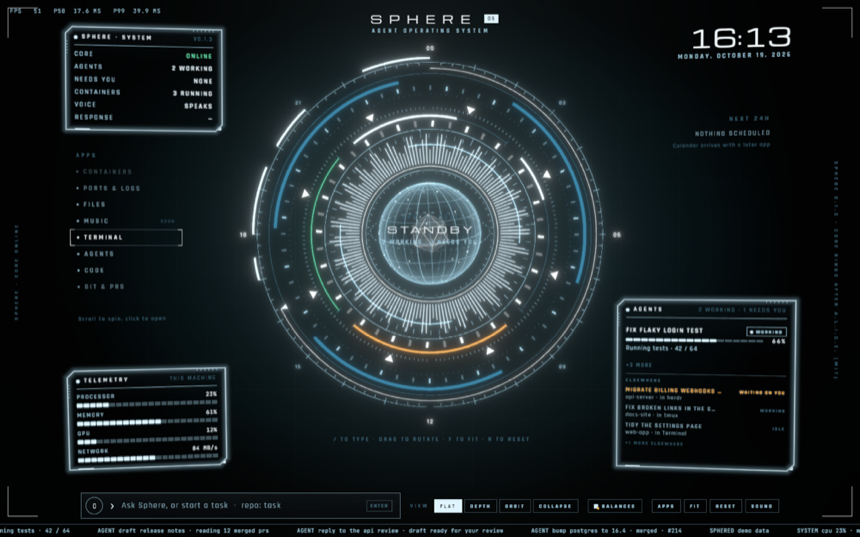
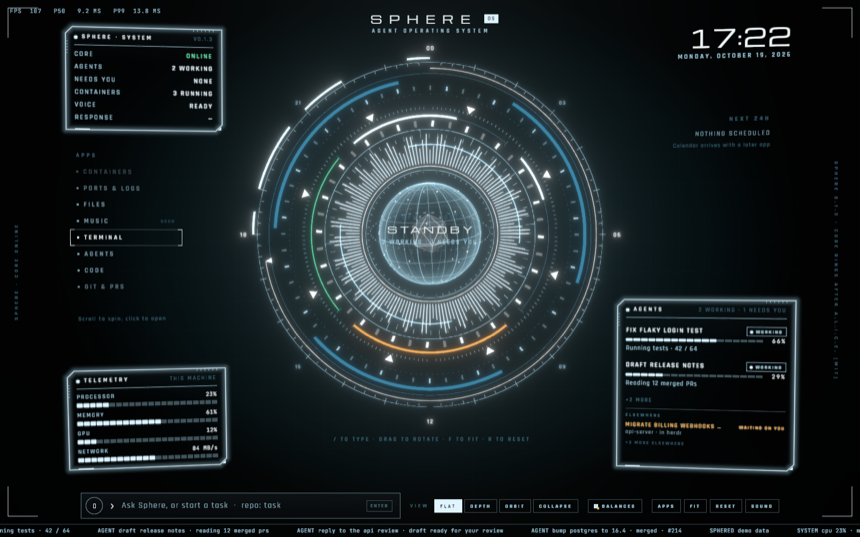
fix(sphered): a resumed session's opening report is not new spend
Found taking over a real terminal session: resumed with no message,
claude reports in with a zero-turn result whose total is what the
session cost before it moved. That total is now only the baseline
(no cost added to the task or the day), and the task keeps "Waiting
for your message". Screenshots refreshed after the merge, plus the
real session's permission request in the Agent moment.

Claude-Session: https://claude.ai/code/session_01D2T5KbyM5LPZQtAcXu8Dxq

diff --git a/crates/sphere-proto/src/views.rs b/crates/sphere-proto/src/views.rs
@@ -17,6 +17,9 @@ pub struct OpenStep {
     pub detail: String,
 }
 
+/// The status of a resumed session that waits for the user's first message.
+pub const WAITING_FOR_YOU: &str = "Waiting for your message";
+
 #[derive(Debug, Clone, PartialEq, Serialize, Deserialize)]
 pub struct TaskView {
     pub id: String,
@@ -342,7 +345,7 @@ impl Views {
                 if t.starts == 0 && t.prompt.trim().is_empty() {
                     // Resumed with no message: it waits for the user's.
                     t.state = TaskState::Done;
-                    t.status = "Waiting for your message".into();
+                    t.status = WAITING_FOR_YOU.into();
                 } else {
                     t.status = "Working".into();
                 }
@@ -404,6 +407,7 @@ impl Views {
                 ok,
                 interrupted,
                 summary,
+                turns,
                 cost_usd,
                 cost_delta_usd,
                 ..
@@ -414,7 +418,10 @@ impl Views {
                 if let Some(c) = cost_usd {
                     t.last_total_cost = *c;
                 }
-                if *ok || *interrupted {
+                // a resumed session reporting in with no turn still waits for the user
+                if *ok && *turns == Some(0) && t.status == WAITING_FOR_YOU {
+                    t.state = TaskState::Done;
+                } else if *ok || *interrupted {
                     t.state = TaskState::Done;
                     let s = first_line(summary, 120);
                     t.status = if *interrupted {
@@ -537,6 +544,65 @@ mod tests {
             agent_request: Some("a1".into()),
             revises: revises.map(str::to_string),
         }
+    }
+
+    #[test]
+    fn a_session_resumed_with_no_message_waits_for_the_user() {
+        let mut v = Views::default();
+        v.apply(&ev(
+            1,
+            "t1",
+            EventBody::TaskCreated {
+                title: "t".into(),
+                prompt: String::new(),
+                repo: "/r".into(),
+                in_place: true,
+                budget_usd: 1.0,
+                mode: None,
+                model: None,
+                allow_rewrites: false,
+                resume_session: Some("s1".into()),
+            },
+        ));
+        v.apply(&ev(
+            2,
+            "t1",
+            EventBody::TakenOver {
+                from: "herdr".into(),
+            },
+        ));
+        v.apply(&started(3, "t1"));
+        let t = v.task("t1").unwrap();
+        assert_eq!(
+            (t.state, t.status.as_str()),
+            (TaskState::Done, WAITING_FOR_YOU)
+        );
+        assert_eq!(t.taken_over_from.as_deref(), Some("herdr"));
+        // the resumed agent reports in with no turn: still waiting, nothing spent
+        let turn = |seq, turns| {
+            ev(
+                seq,
+                "t1",
+                EventBody::Turn {
+                    ok: true,
+                    interrupted: false,
+                    summary: String::new(),
+                    turns,
+                    duration_ms: None,
+                    cost_usd: Some(0.26),
+                    cost_delta_usd: 0.0,
+                },
+            )
+        };
+        v.apply(&turn(4, Some(0)));
+        let t = v.task("t1").unwrap();
+        assert_eq!(
+            (t.state, t.status.as_str()),
+            (TaskState::Done, WAITING_FOR_YOU)
+        );
+        assert_eq!((t.cost_usd, t.last_total_cost), (0.0, 0.26));
+        v.apply(&turn(5, Some(1)));
+        assert_eq!(v.task("t1").unwrap().status, "Done");
     }
 
     #[test]

diff --git a/crates/sphered/src/manager.rs b/crates/sphered/src/manager.rs
@@ -227,7 +227,10 @@ pub fn plan_line(cx: &LineCtx, inc: Incoming) -> Plan {
                     reason: "turn ended".into(),
                 });
             }
+            // A result with no turns did no work: a resumed session reports what
+            // it cost before (outside Sphere, say) and that becomes the baseline.
             let delta = total_cost_usd
+                .filter(|_| turns != Some(0))
                 .map(|c| (c - cx.view.last_total_cost).max(0.0))
                 .unwrap_or(0.0);
             plan.events.push(EventBody::Turn {
@@ -2191,6 +2194,23 @@ mod tests {
         assert!(
             matches!(&plan.events[0], EventBody::Turn { cost_delta_usd, .. } if *cost_delta_usd == 0.0)
         );
+        // A resumed session reporting in with no turn: its total is what it
+        // cost before (outside Sphere), not spend of this task.
+        let plan = plan_line(
+            &cx(&view(), &p, &[], &id),
+            Incoming::Result {
+                ok: true,
+                subtype: "success".into(),
+                text: String::new(),
+                turns: Some(0),
+                duration_ms: None,
+                total_cost_usd: Some(0.26),
+            },
+        );
+        assert!(matches!(
+            &plan.events[0],
+            EventBody::Turn { cost_delta_usd, cost_usd: Some(c), .. } if *cost_delta_usd == 0.0 && *c == 0.26
+        ));
     }
 
     #[test]
